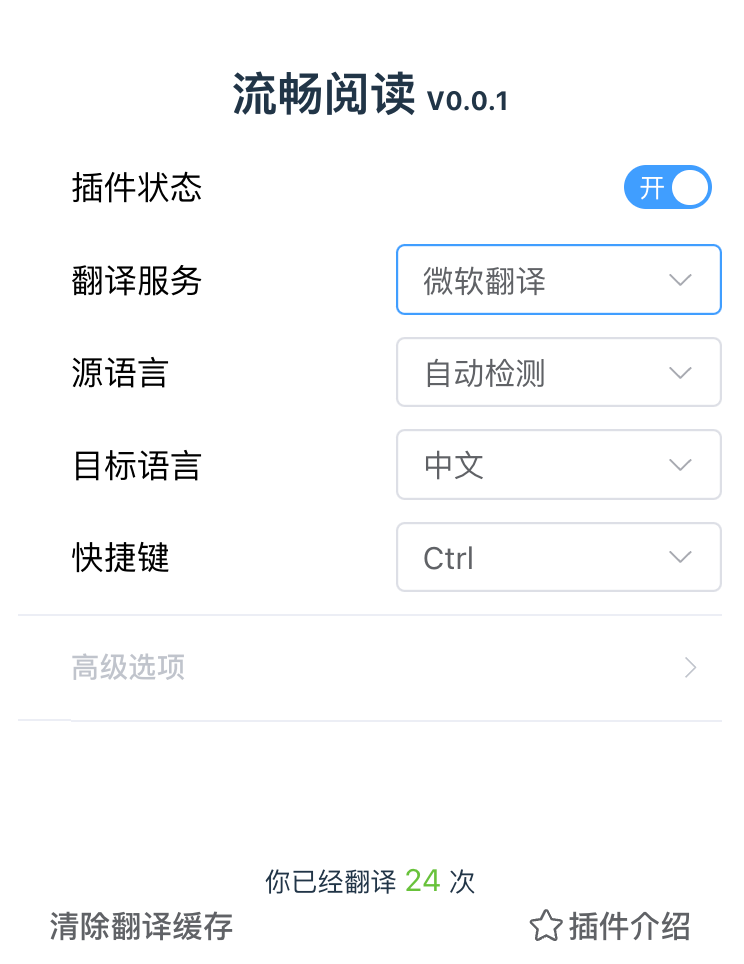
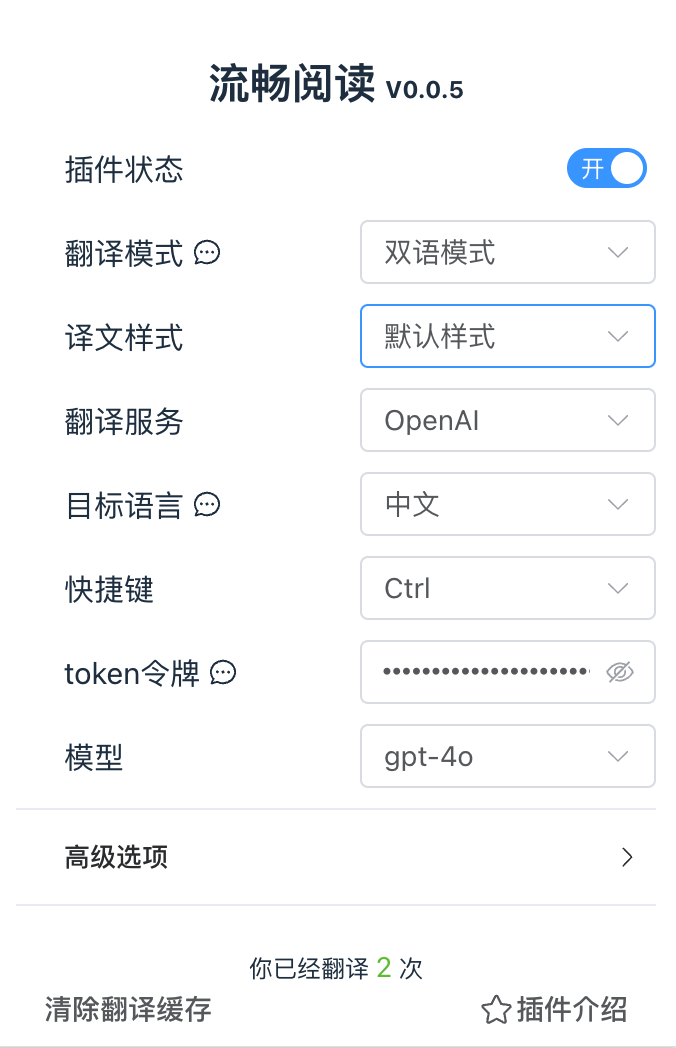
0.5 version

diff --git a/entrypoints/utils/model.ts b/entrypoints/utils/model.ts
@@ -59,6 +59,11 @@ export class Config {
             [services.custom]: defaultOption.system_role,
             [services.claude]: defaultOption.system_role,
             [services.infini]: defaultOption.system_role,
+            [services.baichuan]: defaultOption.system_role,
+            [services.lingyi]: defaultOption.system_role,
+            [services.deepseek]: defaultOption.system_role,
+            [services.minimax]: defaultOption.system_role,
+
         },
             this.user_role = {
                 [services.openai]: defaultOption.user_role,
@@ -70,6 +75,10 @@ export class Config {
                 [services.custom]: defaultOption.user_role,
                 [services.claude]: defaultOption.user_role,
                 [services.infini]: defaultOption.user_role,
+                [services.baichuan]: defaultOption.user_role,
+                [services.lingyi]: defaultOption.user_role,
+                [services.deepseek]: defaultOption.user_role,
+                [services.minimax]: defaultOption.user_role,
             },
             this.count = 0;
     }

diff --git a/entrypoints/main/css.ts b/entrypoints/main/css.ts
@@ -65,9 +65,11 @@ const css = `
 
 /* 阴影效果 */
 .fluent-display-card-mode {
-    box-shadow: 0 3px 12px rgba(0, 0, 0, 0.1); /* 加强阴影的尺寸和不透明度 */
-    padding: 2px;
+    box-shadow: 0 3px 8px rgba(0, 0, 0, 0.20); /* 加强阴影的尺寸和不透明度 */
+    padding: 8px 16px;
     border-radius: 5px;
+    margin: 4px 0 !important;
+    display: block ;
 }
 
 /* 马克笔 */

diff --git a/entrypoints/utils/option.ts b/entrypoints/utils/option.ts
@@ -131,7 +131,7 @@ export const options = {
         },
         {
             value: 'MiddleClick',
-            label: "鼠标中键"
+            label: "鼠标滚轮单击"
         }
     ],
     services: [

diff --git a/entrypoints/utils/constant.ts b/entrypoints/utils/constant.ts
@@ -3,7 +3,7 @@
 import {services} from "./option";
 
 export const app = {
-    version: "0.0.3",
+    version: "0.0.5",
 }
 
 export const urls = {

diff --git a/README.md b/README.md
@@ -6,7 +6,11 @@
 
 流畅阅读是一款高效的浏览器翻译插件，可以将网页上的文字翻译成任何语言，方便、快捷、直观，支持人工智能引擎。流畅阅读使用 JavaScript、TypeScript 语言结合 [Vue3](https://cn.vuejs.org/) + [Element-Plus](https://element-plus.org/) + [WXT](https://wxt.dev/) 框架编写，可以编译成支持绝大多数浏览器的插件。
 
+流畅阅读支持「仅译文模式」和「双语模式」，为所有人提供可选的翻译模式。
+
 <kbd><img src="./misc/sample-git-1.gif" alt="sample-git-1.gif" style="width: 80%; max-width: 100%;border: 1px solid black;"></kbd>
+
+<kbd><img src="./misc/sample-git-4.gif" alt="sample-git-4.gif" style="width: 80%; max-width: 100%;border: 1px solid black;"></kbd>
 
 <kbd><img src="./misc/screenshot-3.png" alt="sample-git-1.gif" style="width: 40%; max-width: 100%;border: 1px solid black;"></kbd>
 
@@ -33,18 +37,22 @@
 
 # 特点介绍
 
-1. **支持多种翻译引擎**
+1. **支持多种翻译方式**
 
-   微软翻译、DeepL翻译、百度翻译、小牛翻译、OpenAI、Claude、Gemini、Kimi（月之暗面）、智谱清言、通义千问、文心一言、无向芯穹、Ollama本地模型等。
+   - 仅译文模式
+   - 双语模式
 
-2. **支持多种翻译方式**
+2. **支持多种翻译引擎**
 
-   1. 快捷键翻译：将鼠标悬浮在文本上，并按下设定的快捷键即可翻译。
-   2. 滑动翻译：持续按住快捷键，同时用鼠标滑动选择需要翻译的文本区域。
+   微软翻译、谷歌翻译、DeepL翻译、百度翻译、小牛翻译、OpenAI、Claude、Gemini、Kimi（月之暗面）、智谱清言、通义千问、文心一言、百川大模型、零一万物、DeepSeek、MiniMax、无向芯穹、⭐自定义引擎等。
 
-   目前支持的快捷键有：Ctrl键、Alt键、Shift键、波浪号键、鼠标左键双击、鼠标左键长按、鼠标中键单击。
+3. **支持多种翻译方式**
 
-3. **支持缓存与回译**
+   1. 快捷键翻译：将鼠标悬浮在文本上，并按下设定的快捷键即可翻译，目前支持的快捷键有 Ctrl、Alt、Shift、波浪号键。
+   2. 鼠标翻译：**双击鼠标**、**长按鼠标**、**鼠标滚轮单击**可触发翻译。
+   3. 滑动翻译：持续按住快捷键，同时用鼠标滑动选择需要翻译的文本区域。
+
+4. **支持缓存与回译**
 
    为了避免重复翻译句子、减少请求次数，流畅阅读基于每个页面做了翻译缓存，你无需关心具体细节（蓝色表示正常翻译、绿色表示使用缓存），当你使用缓存时，插件不会发生网络请求。
 
@@ -78,32 +86,33 @@
 </details>
 <details>
     <summary>6、这款软件如何盈利？</summary>
-&emsp;&emsp;正如你所见，这款软件目前并没有任何盈利的地方。如果您希望向作者给予鼓励，请滑动页面到最底部扫描“微信赞赏码”，作者在此表示感谢~
+&emsp;&emsp;正如你所见，这款软件目前并没有任何盈利的地方。如果您希望向作者给予鼓励，可以滑动页面到最底部使用微信扫描“赞赏码”，作者在此表示感谢~
 </details>
 
 
 
 # 版本更新记录
 
-- 2024-05-18: 0.05 版本
-  1. 接入百度翻译等引擎
-  2. 增加鼠标中键单击翻译等快捷方式
-  3. 优化插件体验
+- 2024-05-19: **0.05 版本**
+  1. 增加“双语翻译”模式
+  2. 接入谷歌翻译、百度翻译、百创大模型、零一万物等引擎
+  3. 支持 GPT-4o 等模型
+  4. 增加鼠标事件，支持快捷翻译
+  5. 增加对自定义接口的支持，兼容 [one-api](https://github.com/songquanpeng/one-api)、[new-api](https://github.com/Calcium-Ion/new-api) 等方式调用
 - 2024-04-01：0.01 版本
-  1. 使用 Vue3 + WXT 重构程序，重新发布
-- 2024-03-04：1.30版本
+  1. 使用 Vue3 + WXT 重构程序
+- 2024-03-04
   1. 增加 [DeepL](https://deepl.com/zh/) 翻译服务
   2. 增加 [ollama](https://github.com/ollama/ollama) 本地大模型支持
   3. 兼容移动设备，实现“三指触摸”翻译
   4. 优化缓存逻辑
-- 2024-02-18：1.0版本
+- 2024-02-18
   1. 接入微软机器翻译
   2. 接入 OpenAI、智谱清言、moonshot 等人工智能引擎
   3. 增加快捷键翻译功能
   4. 增加翻译缓存与回译功能
-- 2024-01：0.6版本
 - ...
-- 2023-12：0.1版本
+- 2023-12 beta 版本
 
 # 开源许可证
 
@@ -130,7 +139,7 @@ pnpm zip:firefox	# 打包为支持 FireFox 内核的插件
 
 如果您想向作者表达感谢，请使用微信扫描下方二维码，您的名字将出现在赞助名单上。
 
-<img src="./misc/approve.jpg" alt="wechat" style="width: 35%; max-width: 100%;border: 1px solid black;">
+<img src="./misc/approve.jpg" alt="wechat" style="width: 40%; max-width: 100%;border: 1px solid black;">
 
 （赞助名单最后更新于：2024年5月18日）
 
